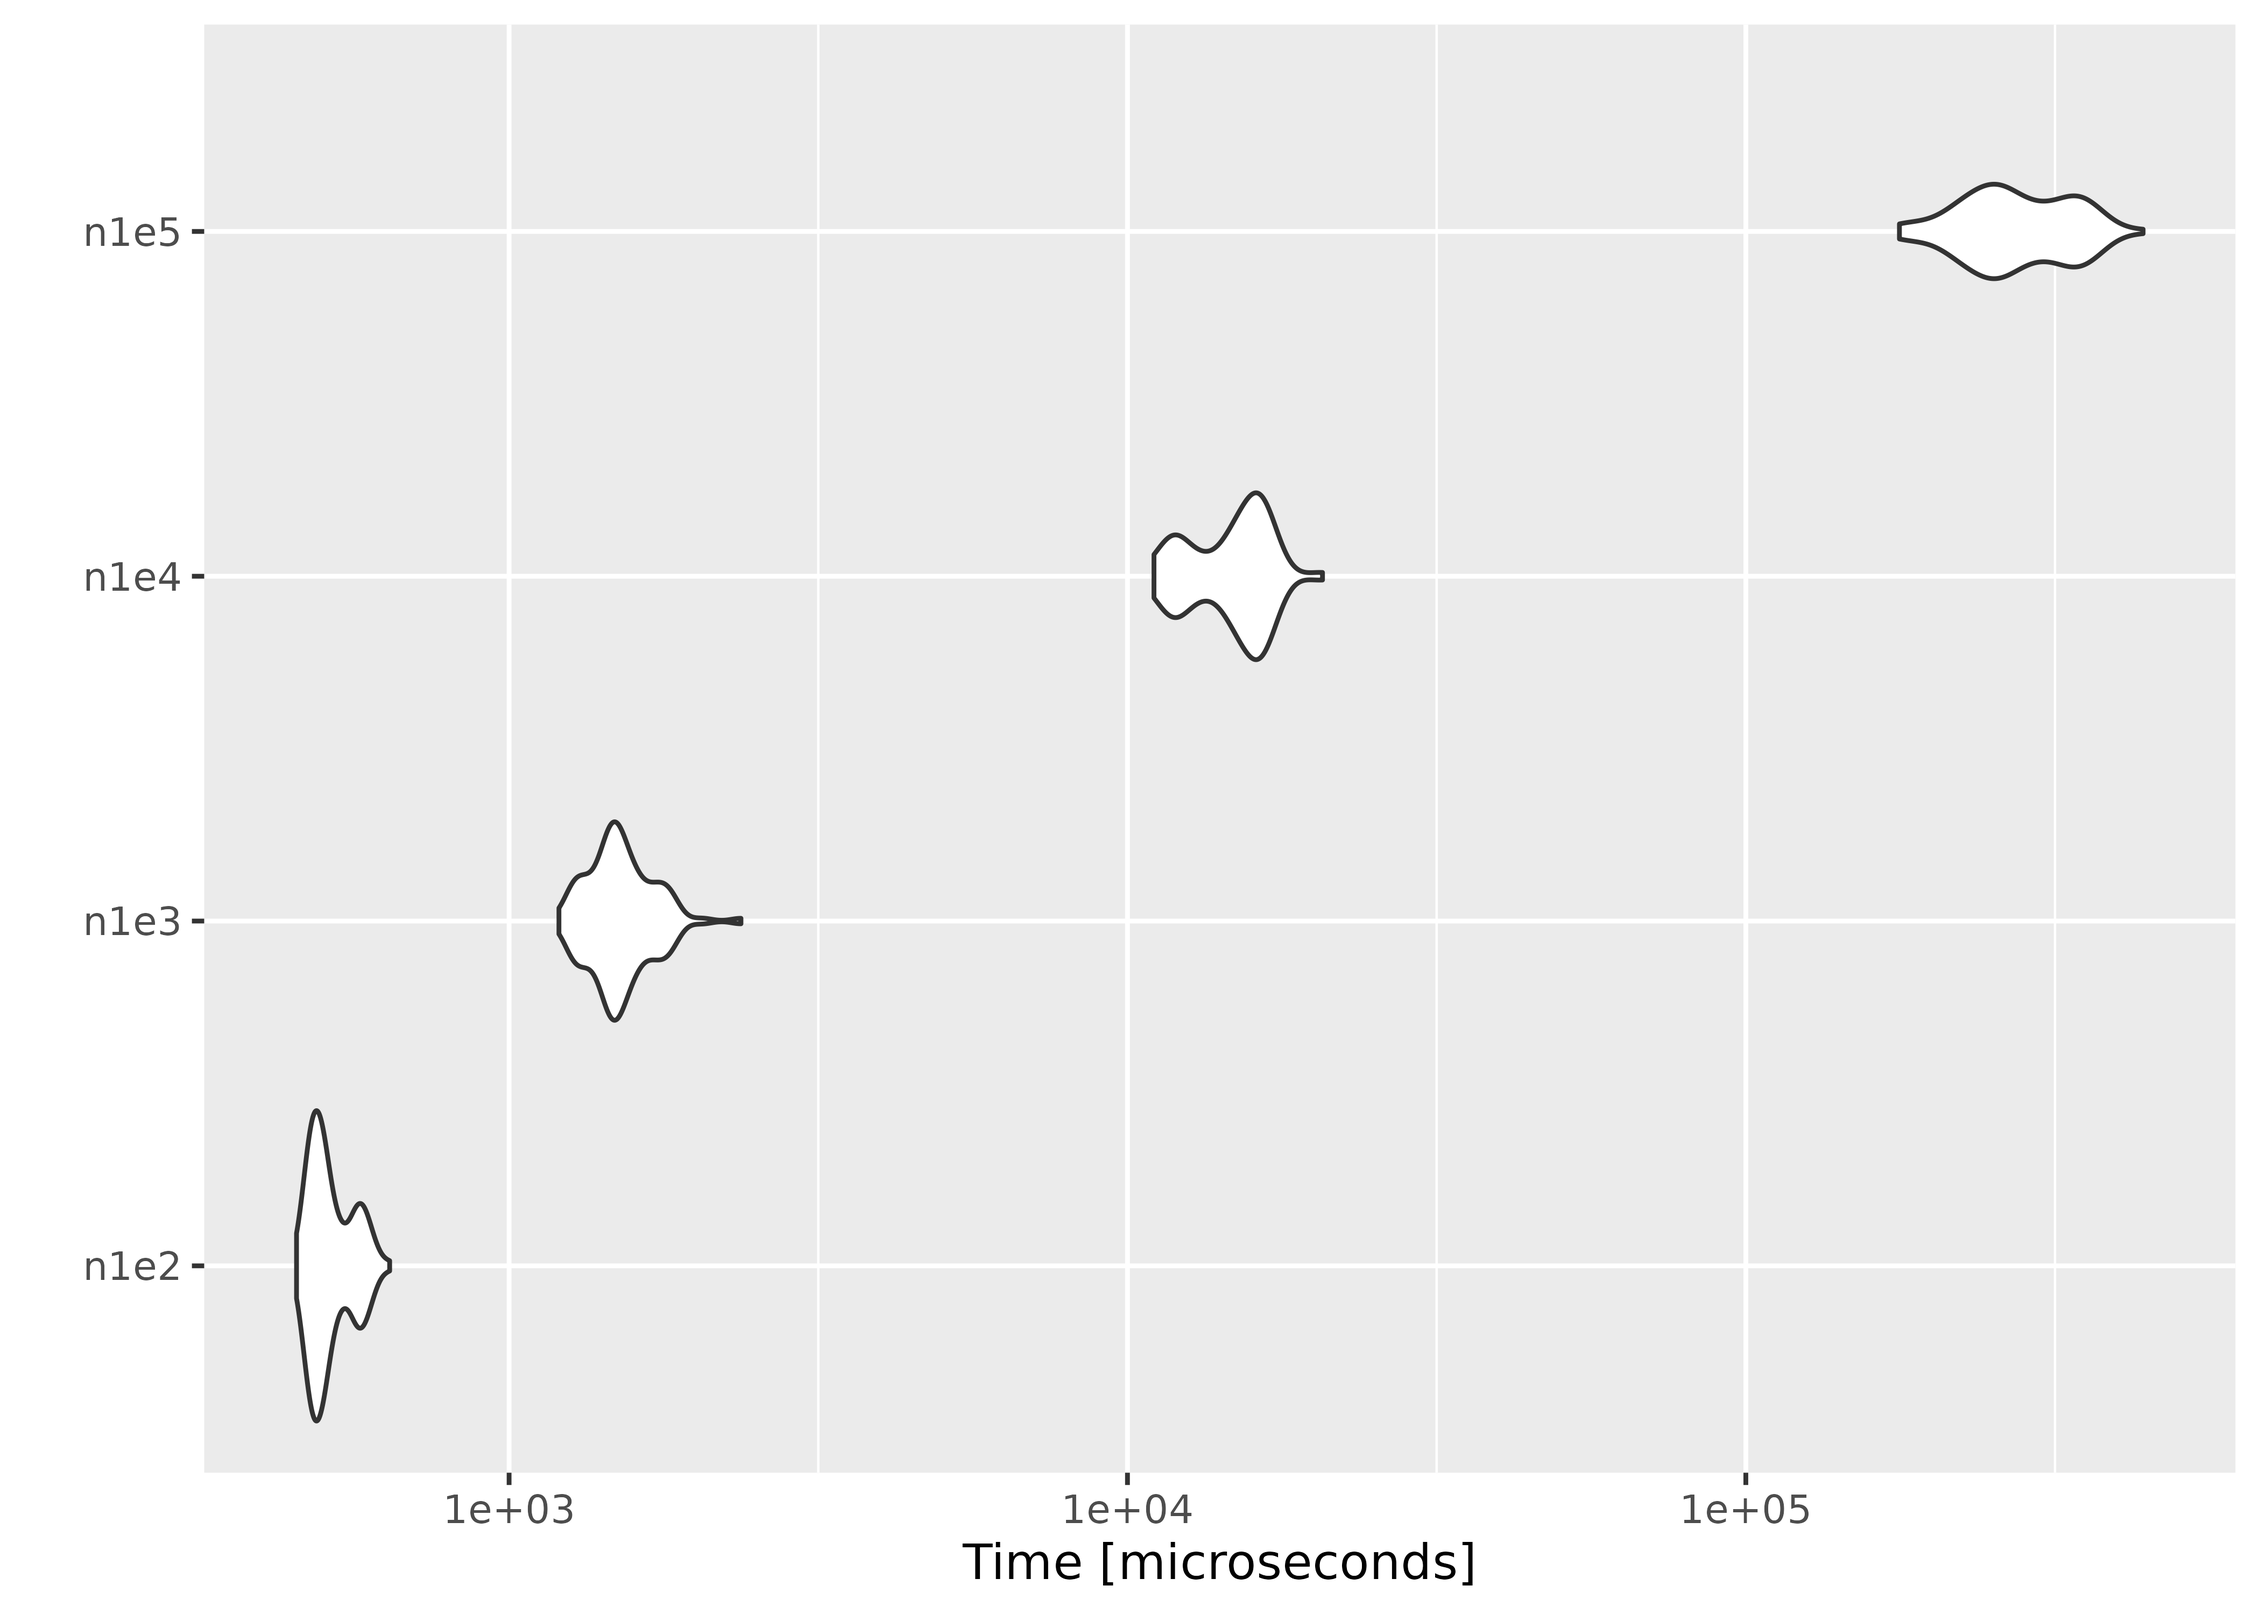
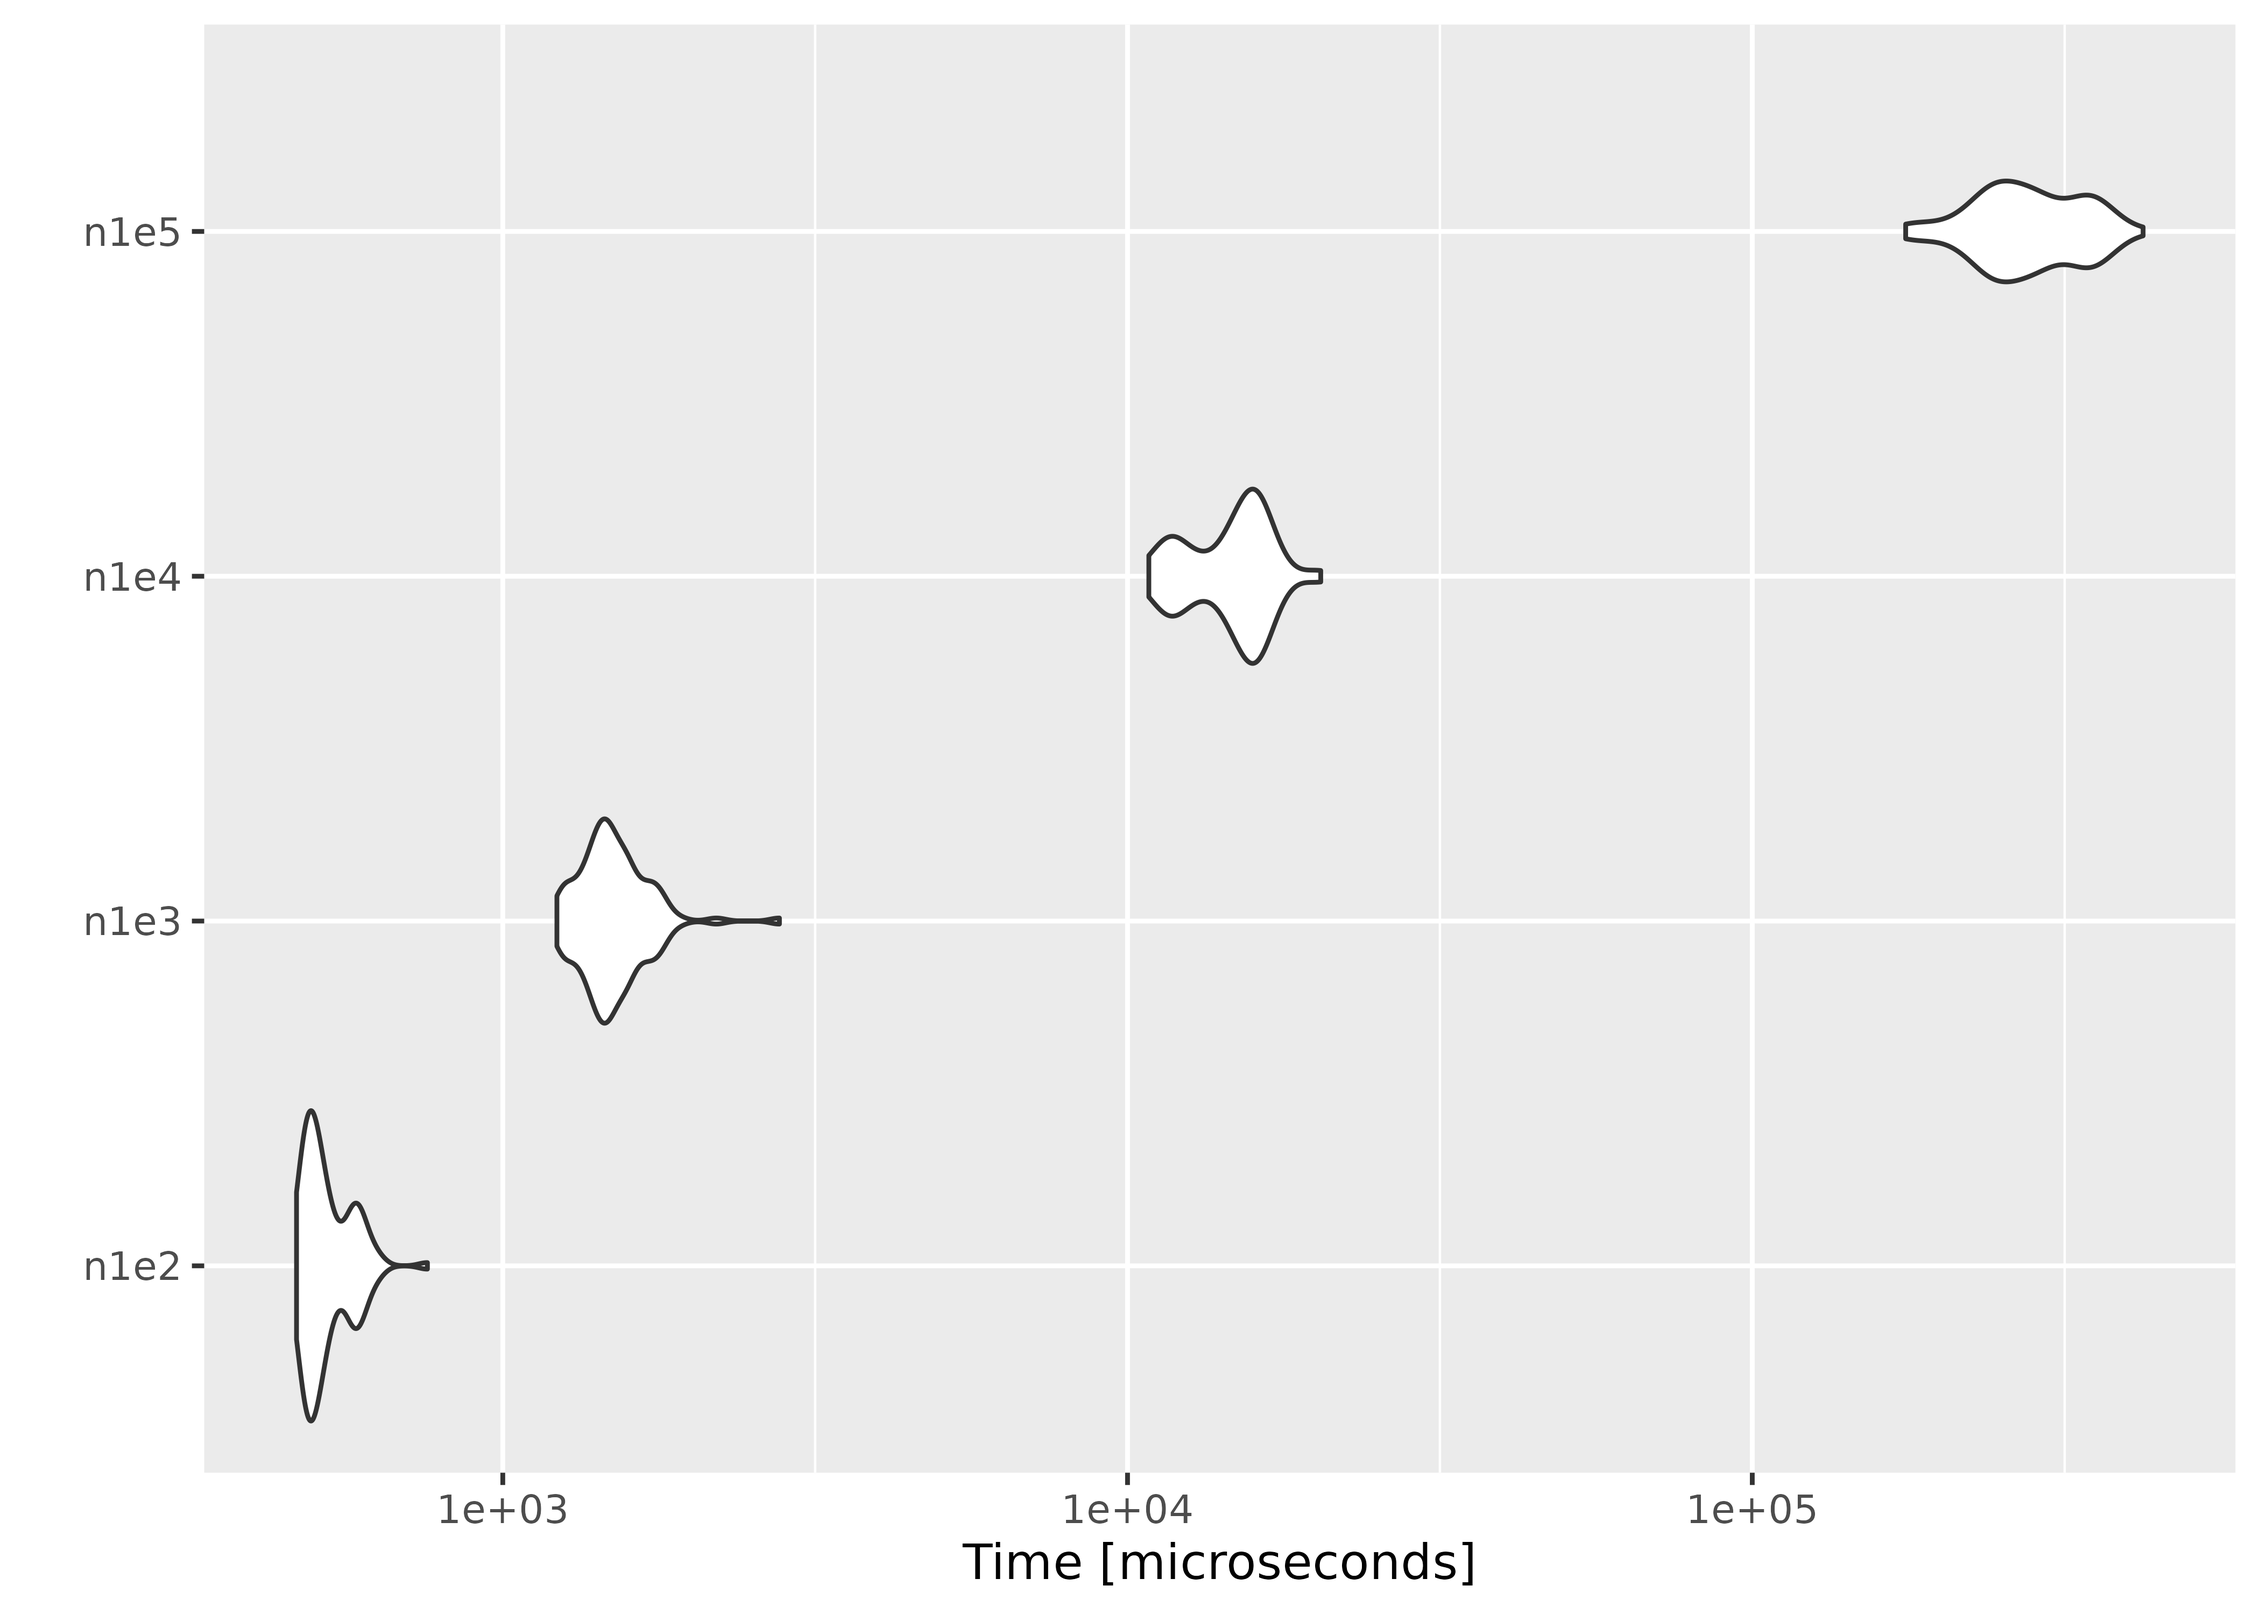
Deploying to gh-pages from @ ropensci/melt@8a7f1788d8a2a6f3106c13692b1f4d2436e57e0d 🚀

diff --git a/articles/performance.html b/articles/performance.html
@@ -135,11 +135,11 @@ parameters increases with the number of observations fixed.</p>
 <div class="sourceCode" id="cb2"><pre class="downlit sourceCode r">
 <code class="sourceCode R"><span><span class="va">result</span></span>
 <span><span class="co">#&gt; Unit: microseconds</span></span>
-<span><span class="co">#&gt;  expr        min         lq        mean     median          uq        max neval</span></span>
-<span><span class="co">#&gt;  n1e2    453.146    483.112    514.8933    501.551    552.1905    640.956   100</span></span>
-<span><span class="co">#&gt;  n1e3   1203.937   1413.097   1523.2106   1496.332   1621.8115   2371.165   100</span></span>
-<span><span class="co">#&gt;  n1e4  11037.908  12591.157  14803.9590  15407.447  16402.0785  20673.369   100</span></span>
-<span><span class="co">#&gt;  n1e5 177179.116 237177.635 278710.9902 266198.958 330316.0015 438996.167   100</span></span>
+<span><span class="co">#&gt;  expr        min         lq        mean     median         uq        max neval</span></span>
+<span><span class="co">#&gt;  n1e2    467.582    489.038    524.3728    504.557    563.743    757.444   100</span></span>
+<span><span class="co">#&gt;  n1e3   1220.799   1395.135   1514.1428   1481.796   1587.559   2772.025   100</span></span>
+<span><span class="co">#&gt;  n1e4  10817.236  12488.065  14707.0953  15291.008  16141.311  20382.143   100</span></span>
+<span><span class="co">#&gt;  n1e5 176005.811 240196.804 281264.8626 272049.312 334042.047 422254.733   100</span></span>
 <span><span class="co">#&gt;  cld</span></span>
 <span><span class="co">#&gt;  a  </span></span>
 <span><span class="co">#&gt;  a  </span></span>
@@ -176,16 +176,16 @@ likelihood at zero vectors of different sizes.</p>
 <div class="sourceCode" id="cb4"><pre class="downlit sourceCode r">
 <code class="sourceCode R"><span><span class="va">result2</span></span>
 <span><span class="co">#&gt; Unit: microseconds</span></span>
-<span><span class="co">#&gt;  expr        min          lq        mean     median          uq        max</span></span>
-<span><span class="co">#&gt;    p5    739.209    777.8215    810.9557    803.680    838.1845    899.278</span></span>
-<span><span class="co">#&gt;   p25   2913.978   2946.2230   3064.2300   2970.644   3032.2735   5942.980</span></span>
-<span><span class="co">#&gt;  p100  23014.969  25564.2155  27696.6702  25968.319  30600.0830  48140.495</span></span>
-<span><span class="co">#&gt;  p400 259926.893 283683.4195 317094.7403 304682.071 340205.1605 455844.226</span></span>
-<span><span class="co">#&gt;  neval cld</span></span>
-<span><span class="co">#&gt;    100 a  </span></span>
-<span><span class="co">#&gt;    100 a  </span></span>
-<span><span class="co">#&gt;    100  b </span></span>
-<span><span class="co">#&gt;    100   c</span></span>
+<span><span class="co">#&gt;  expr        min         lq        mean     median          uq        max neval</span></span>
+<span><span class="co">#&gt;    p5    733.028    782.661    826.3242    808.204    880.1635    962.557   100</span></span>
+<span><span class="co">#&gt;   p25   2851.143   2907.273   3001.1740   2956.560   3019.6630   5888.965   100</span></span>
+<span><span class="co">#&gt;  p100  22956.259  25578.580  27752.9197  26050.481  30625.7930  45871.321   100</span></span>
+<span><span class="co">#&gt;  p400 259904.048 285530.291 320401.1408 308712.441 340454.6290 452284.228   100</span></span>
+<span><span class="co">#&gt;  cld</span></span>
+<span><span class="co">#&gt;  a  </span></span>
+<span><span class="co">#&gt;  a  </span></span>
+<span><span class="co">#&gt;   b </span></span>
+<span><span class="co">#&gt;    c</span></span>
 <span><span class="fu"><a href="https://ggplot2.tidyverse.org/reference/autoplot.html" class="external-link">autoplot</a></span><span class="op">(</span><span class="va">result2</span><span class="op">)</span></span></code></pre></div>
 <p><img src="performance_files/figure-html/unnamed-chunk-6-1.png" width="100%" style="display: block; margin: auto;"></p>
 <p>On average, evaluating empirical likelihood with a 100000×10 or
